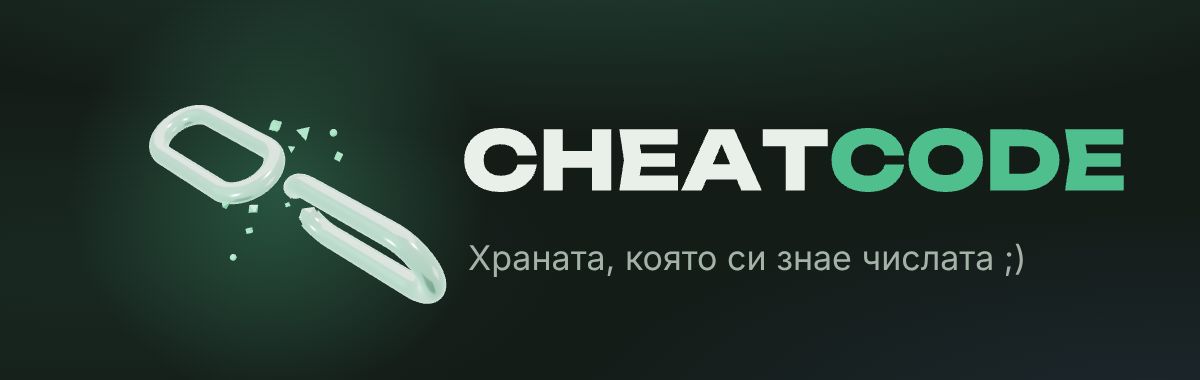
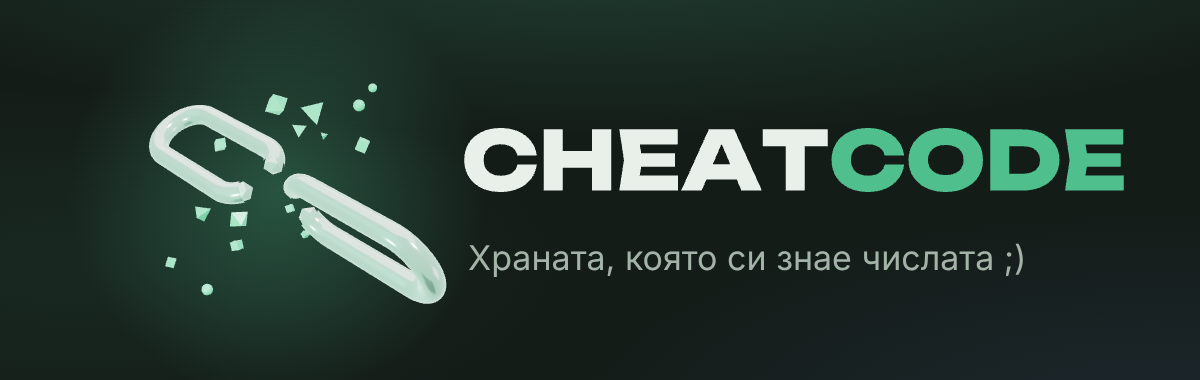
feat(чийт код): стъклената верига — и двете звена скъсани, изразени отломки
И първото звено се къса на дъгата, която минава през второто; двете са
отворени едно към друго. Отломките са шестнайсет, по-едри и по-широко
разпръснати; на светло (CoKitchen) ментата вече не избелява. Писмата,
og.png, сплашът и CoKitchen — от една рисунка. Правилото в RULES.md.

Claude-Session: https://claude.ai/code/session_01KZMXYUK7WnieZQhZs7vYW8

diff --git a/public/cheatcode/glass-chain.js b/public/cheatcode/glass-chain.js
@@ -13,10 +13,11 @@
  *   gc.pose({ apart, shake, broken, burst }); gc.draw(ms)
  *   gc.idle(stageEl)   — люлеене и следене на мишката, както в CoKitchen
  *
- * Две звена-капсули под прав ъгъл. Скъсването е МЕЖДУ тях: второто звено
- * се къса на дъгата, която минава през първото, и звената се разделят —
- * първото излиза през пролуката. (До 08.10 пролуката беше на външната дъга
- * на второто — `gap: 'end'` я връща.) Отломките са в зеленото на марката. */
+ * Две звена-капсули под прав ъгъл, и двете скъсани МЕЖДУ тях — всяко на
+ * дъгата, която минаваше през другото. Звената се разделят и са отворени едно
+ * към друго; отломките в зеленото на марката летят в празното между тях.
+ * (До 08.10 се късаше само второто, на външната си дъга — `gap: 'end'` връща
+ * онзи вид.) */
 (function () {
   'use strict';
 
@@ -87,8 +88,19 @@
     var H = 0.95, R = 0.62, T = 0.2;
     var chain = new THREE.Group();
 
-    var link1 = new THREE.Mesh(new THREE.TubeGeometry(new Stadium(H, R, 0, 1), 220, T, 28, true), glass);
+    /* Първото звено: цяло и скъсано на дясната си дъга (0.32–0.43) — тази,
+       която минава през второто. При `gap: 'end'` остава цяло. */
+    var link1 = new THREE.Group();
     link1.position.x = -0.95;
+    var whole1 = new THREE.Mesh(new THREE.TubeGeometry(new Stadium(H, R, 0, 1), 220, T, 28, true), glass);
+    var torn1 = new THREE.Group();
+    var GAP1 = [0.32, 0.43];
+    torn1.add(new THREE.Mesh(new THREE.TubeGeometry(new Stadium(H, R, GAP1[1], 1 + GAP1[0]), 220, T, 28, false), glass));
+    var capGeo1 = new THREE.IcosahedronGeometry(T * 1.02, 0);
+    GAP1.forEach(function (u) {
+      var m = new THREE.Mesh(capGeo1, glass); m.position.copy(new Stadium(H, R, 0, 1).getPoint(u)); torn1.add(m);
+    });
+    link1.add(whole1); link1.add(torn1);
     chain.add(link1);
 
     /* Второто звено: цяло (преди скъсването) и скъсано. Пролуката е част от
@@ -111,16 +123,22 @@
     /* Отломките: къде са, колко са големи, какви са — по знака. */
     var green = new THREE.MeshStandardMaterial(dark
       ? { color: 0x4fbf8e, roughness: 0.3, metalness: 0.05, emissive: 0x1f6b4e, emissiveIntensity: 0.9 }
-      : { color: 0x2fb377, roughness: 0.35, metalness: 0.1, emissive: 0x0d3b26, emissiveIntensity: 0.25 });
+      : { color: 0x1f8f5c, roughness: 0.3, metalness: 0.05, emissive: 0x0d3b26, emissiveIntensity: 0.5 });
     /* r128 чете цвета на материала като линеен; на тъмно ментата и стъклото
        трябва да са цветовете на страницата, а не избелелите им линейни двойници. */
-    if (dark) { glass.color.convertSRGBToLinear(); green.color.convertSRGBToLinear(); green.emissive.convertSRGBToLinear(); }
+    if (dark) glass.color.convertSRGBToLinear();
+    green.color.convertSRGBToLinear(); green.emissive.convertSRGBToLinear();
     var shards = [];
     var gapAt = new THREE.Vector3().copy(new Stadium(H, R, 0, 1).getPoint((GAP[0] + GAP[1]) / 2))
       .applyEuler(new THREE.Euler(Math.PI / 2, 0, 0)).add(new THREE.Vector3(0.95, 0, 0));
-    [['tet', 0.16, [-0.2, 0.9, 0.5]], ['box', 0.12, [0.35, 1.15, -0.2]], ['oct', 0.14, [-0.65, 0.6, 0.85]],
-     ['tet', 0.1, [0.15, -0.95, 0.6]], ['box', 0.09, [-0.5, -0.8, -0.4]], ['oct', 0.11, [0.55, -0.7, 0.3]],
-     ['sph', 0.07, [-0.1, 1.45, 0.1]], ['tet', 0.08, [0.7, 0.4, 0.75]], ['box', 0.07, [-0.85, 0.1, -0.7]], ['sph', 0.06, [0.25, -1.35, -0.3]]]
+    /* Изразени, не прашинки: шестнайсет, по-едри и по-широко — на 08.10 десет
+       дребни се губеха до двете отворени звена. */
+    [['tet', 0.26, [-0.25, 1.15, 0.6]], ['box', 0.2, [0.4, 1.5, -0.3]], ['oct', 0.24, [-0.7, 0.75, 1.0]],
+     ['tet', 0.18, [0.2, -1.25, 0.75]], ['box', 0.16, [-0.6, -1.0, -0.5]], ['oct', 0.2, [0.65, -0.95, 0.4]],
+     ['sph', 0.11, [-0.1, 1.95, 0.15]], ['tet', 0.15, [0.8, 0.55, 0.95]], ['box', 0.13, [-0.95, 0.15, -0.85]],
+     ['sph', 0.1, [0.3, -1.85, -0.35]], ['tet', 0.12, [0.1, 0.35, -1.2]], ['oct', 0.15, [-0.35, -0.45, 1.25]],
+     ['box', 0.1, [0.95, -0.2, -0.6]], ['tet', 0.09, [-1.0, 1.35, -0.2]], ['sph', 0.08, [0.55, 2.1, 0.5]],
+     ['oct', 0.12, [-0.2, -2.05, 0.3]]]
       .forEach(function (d, i) {
         var g = d[0] === 'tet' ? new THREE.TetrahedronGeometry(d[1]) : d[0] === 'box' ? new THREE.BoxGeometry(d[1], d[1], d[1])
               : d[0] === 'oct' ? new THREE.OctahedronGeometry(d[1]) : new THREE.SphereGeometry(d[1], 16, 12);
@@ -128,7 +146,7 @@
         m.userData = {
           base: new THREE.Vector3(gapAt.x + d[2][0], gapAt.y + d[2][1], gapAt.z + d[2][2]),
           // Между звената: по-тясно по оста на веригата, широко встрани.
-          off: new THREE.Vector3(d[2][0] * 0.45, d[2][1] * 1.05, d[2][2] * 1.1),
+          off: new THREE.Vector3(d[2][0] * 0.55, d[2][1] * 1.15, d[2][2] * 1.2),
           seed: i * 1.7 + 0.3
         };
         m.position.copy(m.userData.base);
@@ -170,6 +188,9 @@
       link2.position.x = 0.95 + sep * 1.3;
       whole.visible = !state.broken;
       torn.visible = state.broken;
+      var both = opts.gap !== 'end';
+      whole1.visible = !(state.broken && both);
+      torn1.visible = state.broken && both;
       var b = state.broken ? state.burst : 0;
       /* При скъсване между звената отломките са в празното между тях:
          средата между дъгата на първото и пролуката на второто, която се

diff --git a/public/cheatcode/sw.js b/public/cheatcode/sw.js
@@ -1,5 +1,5 @@
 /* Генериран от scripts/build-cheatcode.mjs — не се пипа на ръка. */
-const CACHE = 'cheatcode-530b0c1c59bb';
+const CACHE = 'cheatcode-b39eec008293';
 const PRECACHE = ["/cheatcode/","/cheatcode/manifest.webmanifest","/cheatcode/icon-192.png","/cheatcode/icon-512.png","/cheatcode/icon-maskable-512.png","/cheatcode/apple-icon.png","/cheatcode/favicon.svg","/cheatcode/vendor/three-r128.min.js","/cheatcode/glass-chain.js","/cheatcode/banan.jpg","/cheatcode/gris-banan.jpg","/cheatcode/gris-biskviti.jpg","/cheatcode/gris-choko.jpg","/cheatcode/gris-oba.jpg","/cheatcode/gris.jpg","/cheatcode/kakao.jpg","/cheatcode/kayma.jpg","/cheatcode/protein.jpg","/cheatcode/yagodi.jpg"];
 
 self.addEventListener('install', (e) => {

diff --git a/cheatcode/brand/RULES.md b/cheatcode/brand/RULES.md
@@ -119,12 +119,12 @@
 
 ## Стъклената верига
 
-Скъсаната верига като стъклен обект: две звена-капсули под прав ъгъл,
-скъсани **между** тях — второто звено е отворено на дъгата, която минаваше през
-първото, звената са раздалечени, отломките в ментата са в празното между тях.
-Не е втори знак — това е `chain-burst.svg` в материал. (До 08.10 пролуката беше
-на външната дъга на второто звено и веригата изглеждаше цяла; `gap: 'end'`
-връща онзи вид.) Рисува се само от `public/cheatcode/glass-chain.js`,
+Скъсаната верига като стъклен обект: две звена-капсули под прав ъгъл, **и
+двете скъсани** между тях — всяко отворено на дъгата, която минаваше през
+другото. Звената са раздалечени и обърнати едно към друго, а изразените
+отломки в ментата (шестнайсет, не прашинки) летят в празното между тях. Не е
+втори знак — това е `chain-burst.svg` в материал. (До 08.10 се късаше само
+второто звено, на външната си дъга; `gap: 'end'` връща онзи вид.) Рисува се само от `public/cheatcode/glass-chain.js`,
 никога преписана: една рисунка, едно място.
 
 **Къде:** където има размер и повод — представяне (CoKitchen, люлее се и следва

diff --git a/docs/obsidian/2026-10-08 Стъклената верига навсякъде.md b/docs/obsidian/2026-10-08 Стъклената верига навсякъде.md
@@ -39,3 +39,11 @@ mobile), `vite build` минава.
 между тях. В сплаша звената се разделят заедно с излитането на отломките.
 Еднакво навсякъде — сплаш, писма, споделяне, CoKitchen (една рисунка).
 `gap: 'end'` връща стария вид. Проверено с кадри на сплаша, CoKitchen и og.png.
+
+## И двете звена скъсани, изразени отломки
+
+След преглед („да, това е нашето“): и първото звено е скъсано — на дясната си
+дъга, тази през второто. Двете са отворени едно към друго. Отломките са
+шестнайсет вместо десет, около 1.7 пъти по-едри и по-широко; на светло ментата
+вече не избелява (цветовете се превръщат от sRGB и там). Навсякъде — сплаш,
+писма, og.png, CoKitchen. Правилото в RULES.md е обновено.
